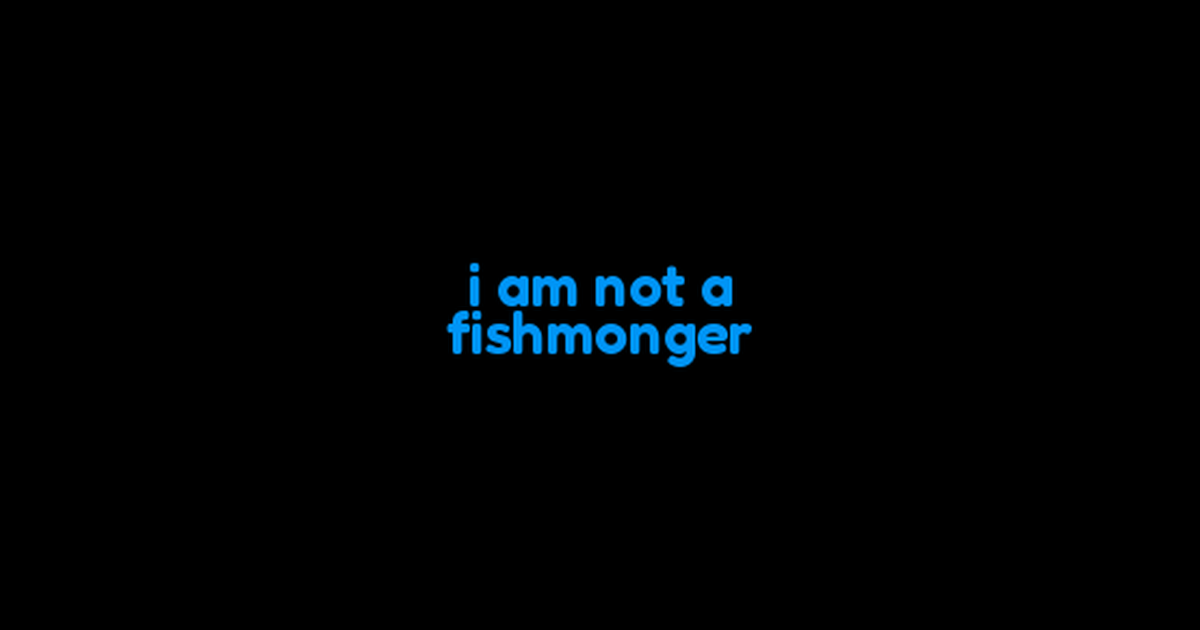
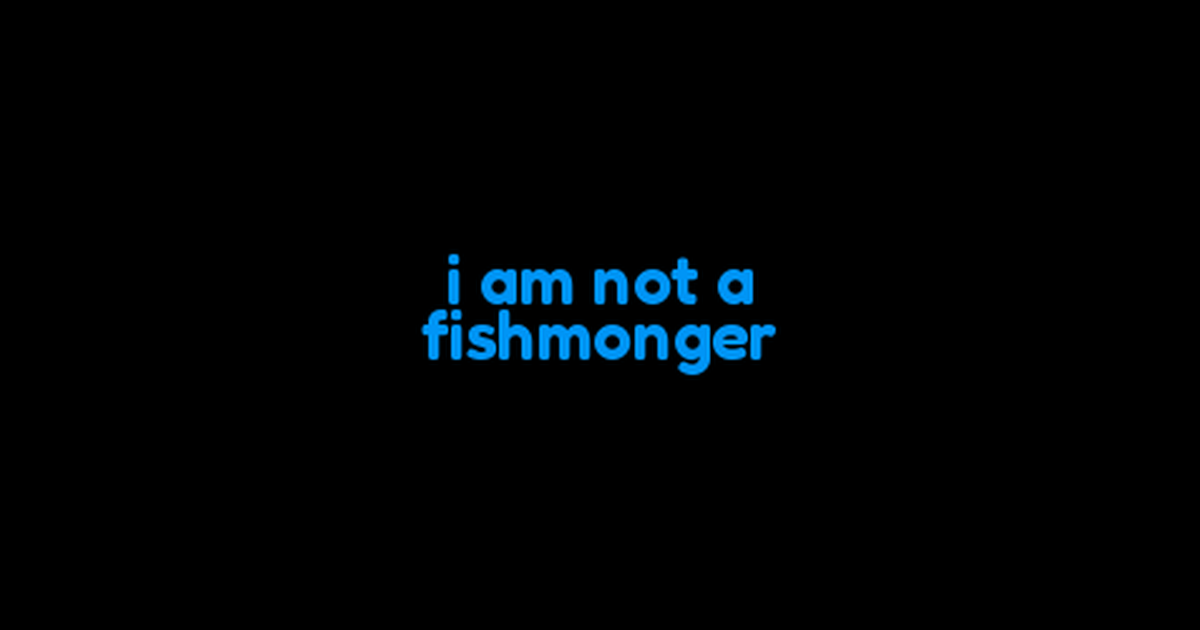
fix: align OG tags with www domain and serve og-social.jpg
KakaoTalk shares www URLs but og:image pointed at the bare domain, causing fallback to a cached favicon. Use www consistently and a new JPEG OG asset.

Changed region(s): [[0.3392, 0.3921, 0.6475, 0.6032]]

diff --git a/frontend/index.html b/frontend/index.html
@@ -7,6 +7,7 @@
     <meta name="theme-color" content="#000000" />
 
     <title>i am not a fishmonger</title>
+    <link rel="canonical" href="https://www.iamnotafishmonger.com/" />
 
     <!-- Favicon -->
     <link rel="icon" href="/favicon.ico" sizes="48x48" />
@@ -16,25 +17,26 @@
     <link rel="apple-touch-icon" sizes="180x180" href="/apple-touch-icon.png" />
     <link rel="manifest" href="/site.webmanifest" />
 
-    <!-- Open Graph -->
+    <!-- Open Graph (all absolute URLs use www — matches how links are shared in KakaoTalk) -->
     <meta property="og:type" content="website" />
     <meta property="og:site_name" content="i am not a fishmonger" />
-    <meta property="og:url" content="https://iamnotafishmonger.com/" />
+    <meta property="og:url" content="https://www.iamnotafishmonger.com/" />
     <meta property="og:title" content="i am not a fishmonger" />
     <meta property="og:description" content="i am not a fishmonger — 수산물 전문 도·소매 이커머스" />
-    <meta property="og:image" content="https://iamnotafishmonger.com/og-brand.png" />
-    <meta property="og:image:secure_url" content="https://iamnotafishmonger.com/og-brand.png" />
-    <meta property="og:image:type" content="image/png" />
+    <meta property="og:image" content="https://www.iamnotafishmonger.com/og-social.jpg" />
+    <meta property="og:image:secure_url" content="https://www.iamnotafishmonger.com/og-social.jpg" />
+    <meta property="og:image:type" content="image/jpeg" />
     <meta property="og:image:width" content="1200" />
     <meta property="og:image:height" content="630" />
     <meta property="og:image:alt" content="i am not a fishmonger" />
     <meta property="og:locale" content="ko_KR" />
+    <link rel="image_src" href="https://www.iamnotafishmonger.com/og-social.jpg" />
 
     <!-- Twitter / X -->
     <meta name="twitter:card" content="summary_large_image" />
     <meta name="twitter:title" content="i am not a fishmonger" />
     <meta name="twitter:description" content="i am not a fishmonger — 수산물 전문 도·소매 이커머스" />
-    <meta name="twitter:image" content="https://iamnotafishmonger.com/og-brand.png" />
+    <meta name="twitter:image" content="https://www.iamnotafishmonger.com/og-social.jpg" />
     <meta name="twitter:image:alt" content="i am not a fishmonger" />
 
     <link rel="preconnect" href="https://fonts.googleapis.com" />

diff --git a/frontend/scripts/generate-icons.py b/frontend/scripts/generate-icons.py
@@ -24,6 +24,10 @@ def save_png(path: Path, image: Image.Image) -> None:
     image.save(path, format="PNG", optimize=True)
 
 
+def save_jpg(path: Path, image: Image.Image, *, quality: int = 92) -> None:
+    image.save(path, format="JPEG", quality=quality, optimize=True)
+
+
 def save_ico(path: Path, master: Image.Image) -> None:
     sizes = [16, 32, 48]
     frames = [master.resize((s, s), Image.Resampling.LANCZOS) for s in sizes]
@@ -34,8 +38,8 @@ def render_og(master: Image.Image) -> Image.Image:
     canvas_w, canvas_h = 1200, 630
     og = Image.new("RGBA", (canvas_w, canvas_h), BRAND_BLACK)
 
-    max_w = int(canvas_w * 0.86)
-    max_h = int(canvas_h * 0.62)
+    max_w = int(canvas_w * 0.90)
+    max_h = int(canvas_h * 0.72)
     ratio = min(max_w / master.width, max_h / master.height)
     new_size = (max(1, int(master.width * ratio)), max(1, int(master.height * ratio)))
     resized = master.resize(new_size, Image.Resampling.LANCZOS)
@@ -93,9 +97,10 @@ def main() -> None:
 
     save_ico(PUBLIC / "favicon.ico", master)
     og = render_og(master)
-    # og-brand.png — canonical OG asset (new filename busts Kakao/Facebook URL cache)
     save_png(PUBLIC / "og-brand.png", og)
     save_png(PUBLIC / "og-image.png", og)
+    # JPEG — KakaoTalk scraper handles this more reliably than PNG for previews
+    save_jpg(PUBLIC / "og-social.jpg", og)
 
     for name in ("favicon.svg", "brand-icon.svg", "app-icon.svg"):
         write_svg(PUBLIC / name)
